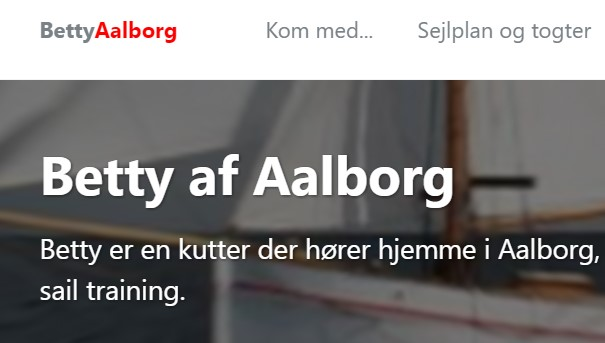
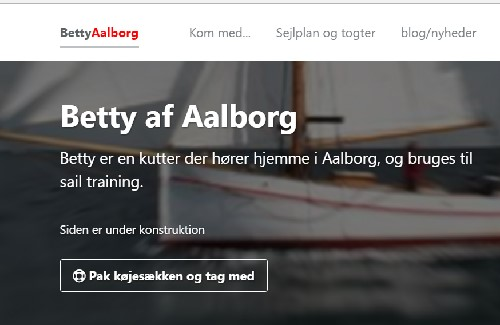
update

diff --git a/index.html b/index.html
@@ -1,6 +1,6 @@
 ---
 title: "Betty af Aalborg"
-layout: single
+layout: home
 author_profile: true
 header:
   overlay_image: assets/images/betty_splash.png

diff --git a/_posts/2016-12-23-Jule-hilsen-fra-Betty-2016.md b/_posts/2016-12-23-Jule-hilsen-fra-Betty-2016.md
@@ -1,8 +1,8 @@
 ---
 title: "Julehilsen fra Betty"
-excerpt: "Efter køb og et længere værftsophold i Rødbyhavn fik vi sejlet 'Betty' til Aalborg. Undervejs måtte vi desværre konstatere, at dækket var meget utæt."
+excerpt: "Efter køb og et længere værftsophold i Rødbyhavn fik vi sejlet 'Betty' til Aalborg. Undervejs måtte vi desværre konstatere, at dækket var meget utæt..."
 header:
-	  image: "/assets/images/julehilsen2016.jpg"
+    teaser: "/assets/images/julehilsen2016.jpg"
 author: br
 categories:
   - Opdatering

diff --git a/_posts/2016-11-20-Afrigning-2016.md b/_posts/2016-11-20-Afrigning-2016.md
@@ -1,9 +1,9 @@
 ---
 title: "Afrigning af Betty"
 author: mel
-excerpt: "En af de mindre sjove opgaver omkring Betty er årets afrigning. Det er aldrig det mest spændende arbejde"
+excerpt: "En af de mindre sjove opgaver omkring Betty er årets afrigning. Det er aldrig det mest spændende arbejde, ..."
 header:
-	  image: "/assets/images/afrigning2016/7.jpg"
+    teaser: "/assets/images/afrigning2016/7.jpg"
 categories:
   - Skibsarbejde
 tags:

diff --git a/_posts/2016-10-05-Ny-hjemmeside-for-Betty-og-UniSail.md b/_posts/2016-10-05-Ny-hjemmeside-for-Betty-og-UniSail.md
@@ -1,7 +1,8 @@
 ---
 title: "Ny hjemmeside for Betty og UniSail"
 header:
-	  image: "/assets/images/new-website.jpg"
+     teaser: "/assets/images/new-website.jpg"
+excerpt: "Ny hjemmeside for UniSail foreningen er oppe at køre. Stadig meget primitiv, men forhåbenlig vil den tiden indeholde ..."
 categories:
   - PR
 tags:
